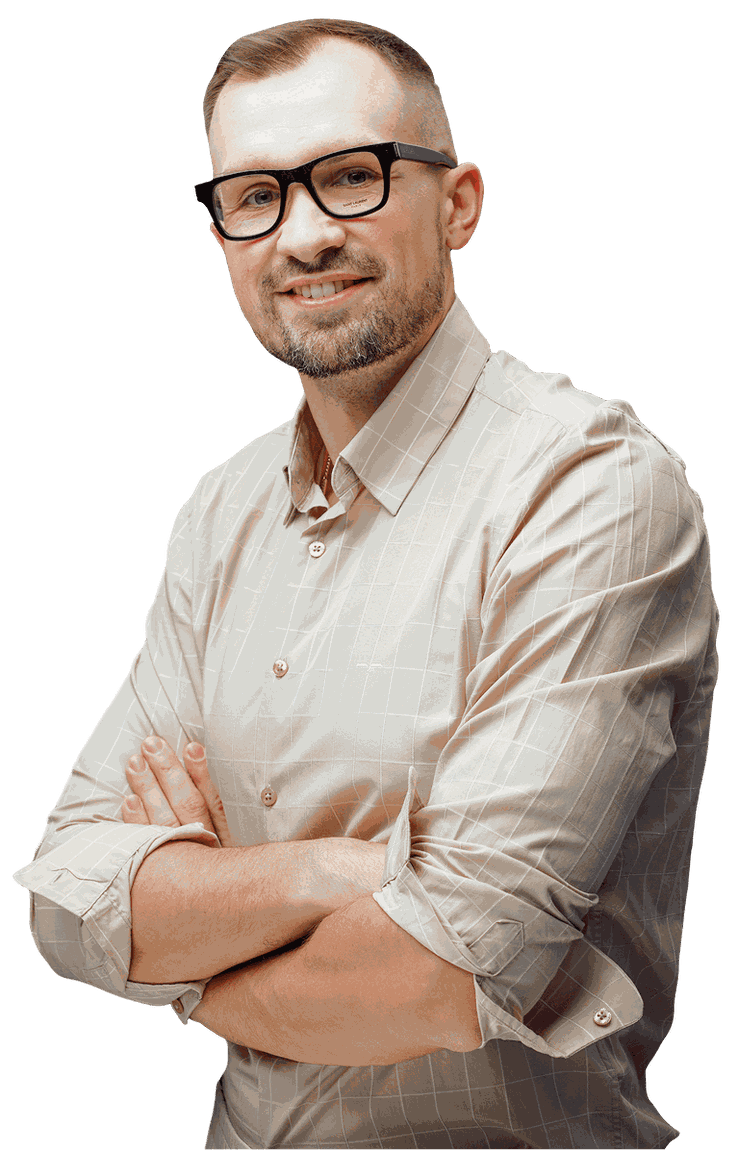
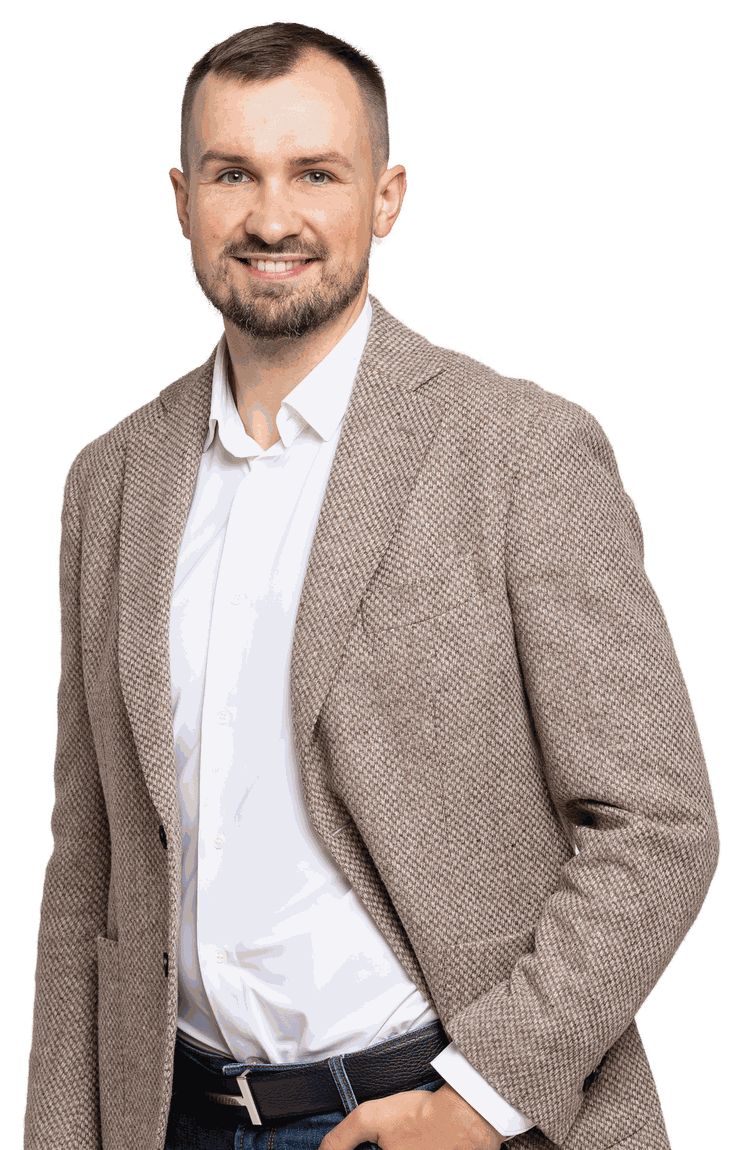
isalary: V1/V2 заменены — были дублем одной съёмки
V1 и V2 отличались всего на 7.9% (одна съёмка, одна поза, та же бежевая рубашка, что и на текущем фото). Заменены на действительно разные образы:

- V1: 177A7106.jpg — бежевый твидовый пиджак, рука в кармане (обтравка rembg, кадр 3/4 роста)
- V2: Group_1437255714_1_1.png — тёмный жакет, крупный план, руки скрещены (обтравка rembg)

Проверка разнообразия: минимальное расхождение среди V1-V4 теперь 22.7% (было 7.9%).
Отклонён вариант с серой водолазкой: rembg не отделяет деревянный стул (касается фигуры).

diff --git a/isalary/v2.html b/isalary/v2.html
@@ -19,7 +19,7 @@
   <meta property="og:image" content="speaker.png">
   <link rel="icon" href="/favicon.ico">
   <meta name="robots" content="noindex, nofollow">
-  <title>[V2] Вариант 2 — руки скрещены, фронтально | FIN-RA</title>
+  <title>[V2] Вариант 2 — тёмный жакет, крупный план | FIN-RA</title>
   <link rel="preconnect" href="https://fonts.googleapis.com">
   <link rel="preconnect" href="https://fonts.gstatic.com" crossorigin>
   <link href="https://fonts.googleapis.com/css2?family=Outfit:wght@300;400;500;600;700;800&family=DM+Sans:ital,wght@0,400;0,500;0,600;1,400&display=swap" rel="stylesheet">
@@ -1534,7 +1534,7 @@ height="0" width="0" style="display:none;visibility:hidden"></iframe></noscript>
       </div>
 
       <div class="hero__right">
-        <img src="speaker-v2.png" alt="Дмитрий Толстяков, основатель FIN-RA" class="speaker-img" width="766" height="1150">
+        <img src="speaker-v2.png" alt="Дмитрий Толстяков, основатель FIN-RA" class="speaker-img" width="884" height="1133">
 
         <div class="float-card float-card--1"><img src="https://static.tildacdn.com/tild3434-3066-4034-b634-616432616137/-__.png" alt="На займах" width="595" height="842" loading="lazy"></div>
         <div class="float-card float-card--2"><img src="https://static.tildacdn.com/tild6438-6665-4433-b933-313135333731/-___.png" alt="На фондовом рынке" width="596" height="846" loading="lazy"></div>
@@ -2098,6 +2098,6 @@ height="0" width="0" style="display:none;visibility:hidden"></iframe></noscript>
   </script>
 <script src="/tg-intercept.js" defer></script>
 
-  <div class="vbadge"><span class="vbadge__name">Вариант 2 — руки скрещены, фронтально</span><span class="vbadge__sep" style="opacity:.5">|</span><a href="v1.html" class="">V1</a><a href="v2.html" class="on">V2</a><a href="v3.html" class="">V3</a><a href="v4.html" class="">V4</a><a href="./" style="opacity:.7">текущий</a></div>
+  <div class="vbadge"><span class="vbadge__name">Вариант 2 — тёмный жакет, крупный план</span><span class="vbadge__sep" style="opacity:.5">|</span><a href="v1.html" class="">V1</a><a href="v2.html" class="on">V2</a><a href="v3.html" class="">V3</a><a href="v4.html" class="">V4</a><a href="./" style="opacity:.7">текущий</a></div>
 </body>
 </html>

diff --git a/isalary/v1.html b/isalary/v1.html
@@ -19,7 +19,7 @@
   <meta property="og:image" content="speaker.png">
   <link rel="icon" href="/favicon.ico">
   <meta name="robots" content="noindex, nofollow">
-  <title>[V1] Вариант 1 — руки скрещены (_1) | FIN-RA</title>
+  <title>[V1] Вариант 1 — бежевый пиджак, рука в кармане | FIN-RA</title>
   <link rel="preconnect" href="https://fonts.googleapis.com">
   <link rel="preconnect" href="https://fonts.gstatic.com" crossorigin>
   <link href="https://fonts.googleapis.com/css2?family=Outfit:wght@300;400;500;600;700;800&family=DM+Sans:ital,wght@0,400;0,500;0,600;1,400&display=swap" rel="stylesheet">
@@ -1534,7 +1534,7 @@ height="0" width="0" style="display:none;visibility:hidden"></iframe></noscript>
       </div>
 
       <div class="hero__right">
-        <img src="speaker-v1.png" alt="Дмитрий Толстяков, основатель FIN-RA" class="speaker-img" width="738" height="1150">
+        <img src="speaker-v1.png" alt="Дмитрий Толстяков, основатель FIN-RA" class="speaker-img" width="742" height="1150">
 
         <div class="float-card float-card--1"><img src="https://static.tildacdn.com/tild3434-3066-4034-b634-616432616137/-__.png" alt="На займах" width="595" height="842" loading="lazy"></div>
         <div class="float-card float-card--2"><img src="https://static.tildacdn.com/tild6438-6665-4433-b933-313135333731/-___.png" alt="На фондовом рынке" width="596" height="846" loading="lazy"></div>
@@ -2098,6 +2098,6 @@ height="0" width="0" style="display:none;visibility:hidden"></iframe></noscript>
   </script>
 <script src="/tg-intercept.js" defer></script>
 
-  <div class="vbadge"><span class="vbadge__name">Вариант 1 — руки скрещены (_1)</span><span class="vbadge__sep" style="opacity:.5">|</span><a href="v1.html" class="on">V1</a><a href="v2.html" class="">V2</a><a href="v3.html" class="">V3</a><a href="v4.html" class="">V4</a><a href="./" style="opacity:.7">текущий</a></div>
+  <div class="vbadge"><span class="vbadge__name">Вариант 1 — бежевый пиджак, рука в кармане</span><span class="vbadge__sep" style="opacity:.5">|</span><a href="v1.html" class="on">V1</a><a href="v2.html" class="">V2</a><a href="v3.html" class="">V3</a><a href="v4.html" class="">V4</a><a href="./" style="opacity:.7">текущий</a></div>
 </body>
 </html>
